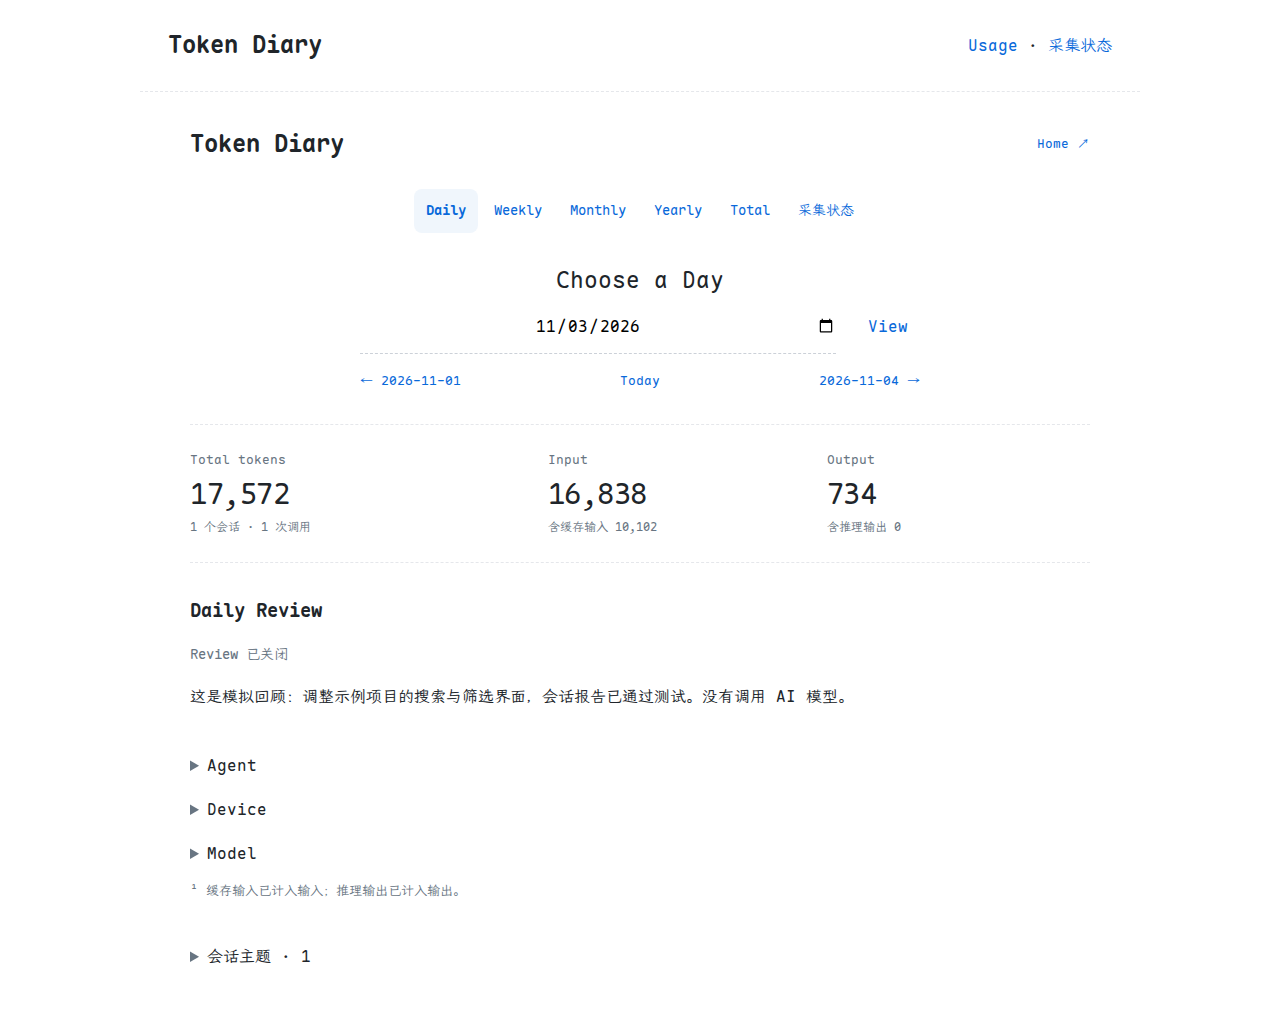
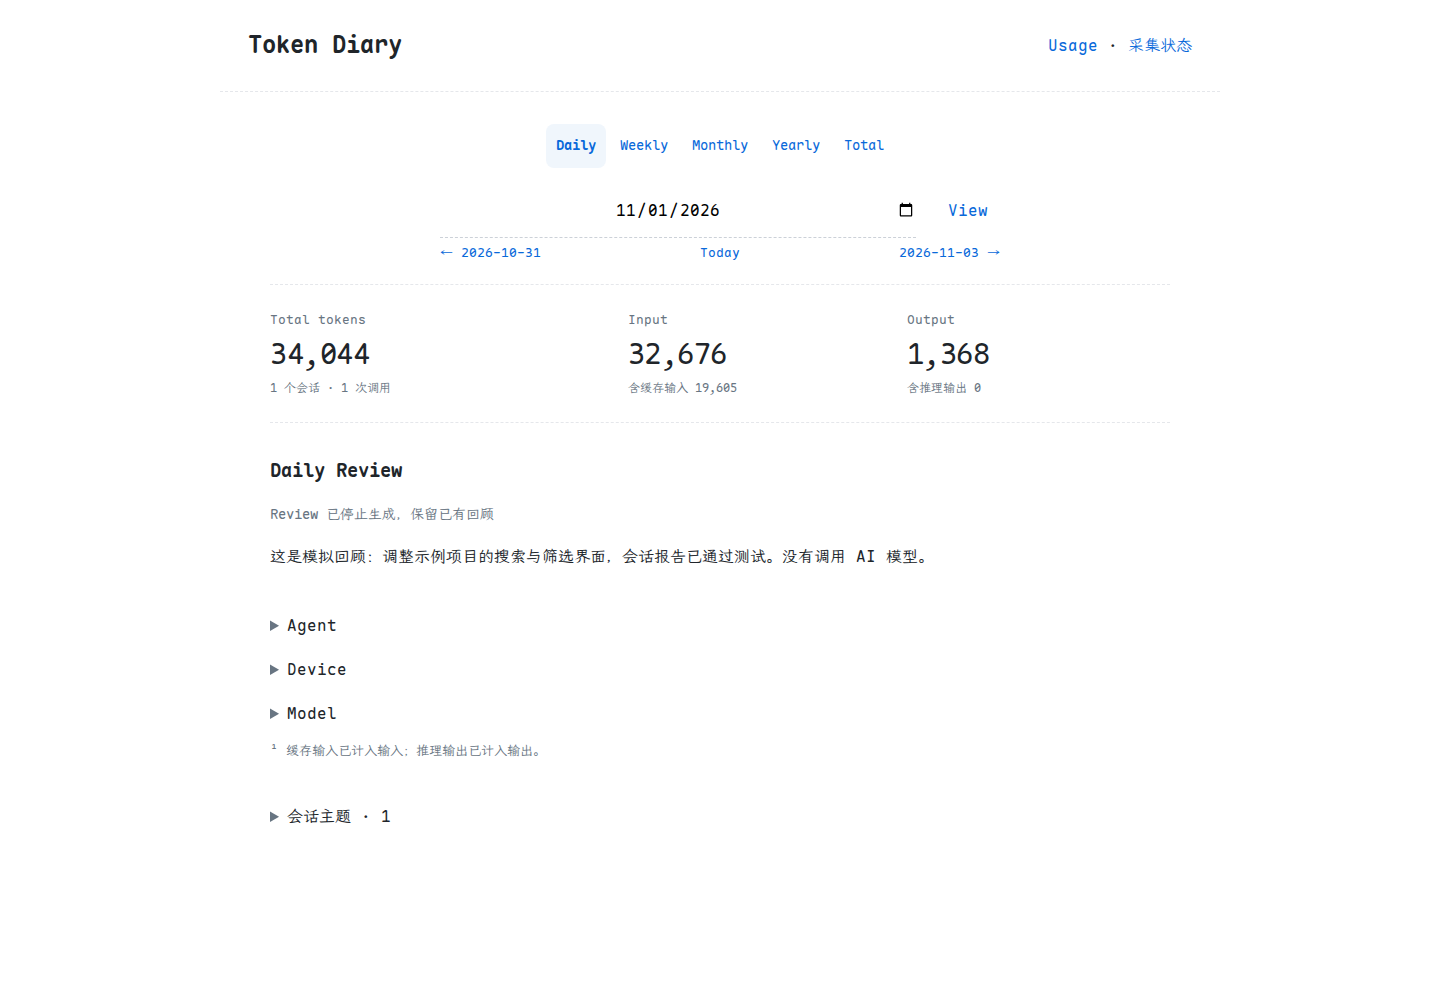
fix: invalidate removed-source views and simplify usage navigation

diff --git a/docs/data.md b/docs/data.md
@@ -60,3 +60,5 @@
 ## 备份与 Diary
 
 备份配置与整个 dataDir 即可恢复。导出默认包括每日用量和已生成日回顾，不含原始会话摘录。JSON 适合程序对接；Markdown 可手动导入日记。项目不直接修改或提交任何 Diary 仓库。
+
+移除数据源并重新采集后，页面和导出只展示当前索引中的日期与周期；离线但仍保留在配置中的数据源继续使用最近成功快照。移除来源不会自动擦除磁盘上的历史缓存，已有回顾也不会因关闭生成开关而被删除。
